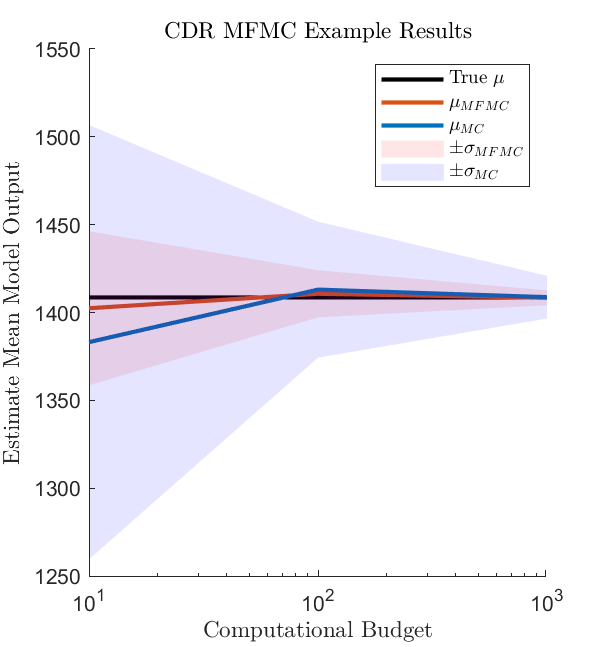
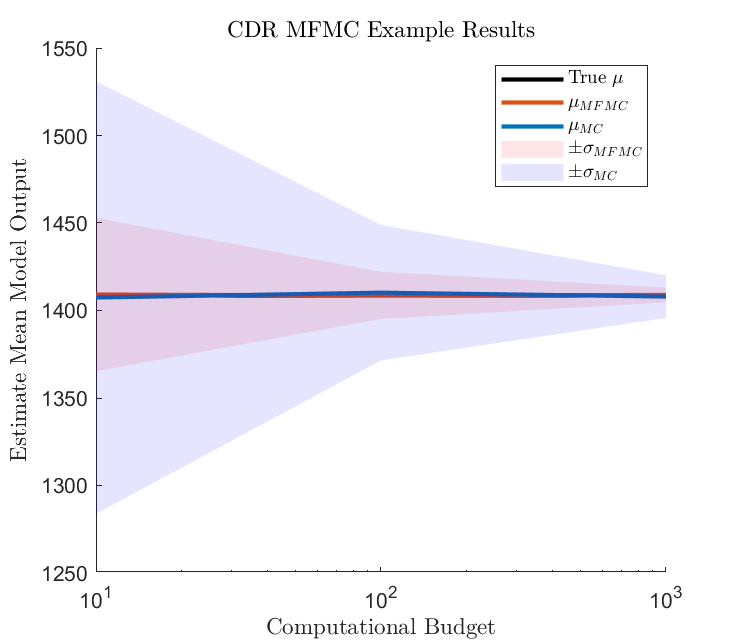
final edits to plots

diff --git a/mfmcExamples/functions/plotMFLinearExp.m b/mfmcExamples/functions/plotMFLinearExp.m
@@ -19,8 +19,8 @@ function plotMFLinearExp(models, betaMFMC, betaMC, CxyMFMC, CxyMC, exactLR, p, a
     semilogx(p, exactLR.Cxy(1).*ones(length(p),1), "Color", [0, 0, 0, 1])
     semilogx(p, mean(Cxy1MC, 1), "Color", [rbg(1, :) 1], "Linestyle", "--", "Marker", "o")
     semilogx(p, mean(Cxy1MF, 1), "Color", [rbg(2, :) 1], "Linestyle", "--", "Marker", "x")
-    xlabel("x")
-    ylabel("y")
+    xlabel("p", "Interpreter", "latex")
+    ylabel("$\hat{c}_{XY}(1)$", "Interpreter", "latex")
     title("First Element of $\hat{c}_{XY}$; Average value of $f^{(1)}$", "Interpreter", "latex")
 
     %% First Element of beta versus p
@@ -34,8 +34,8 @@ function plotMFLinearExp(models, betaMFMC, betaMC, CxyMFMC, CxyMC, exactLR, p, a
     semilogx(p, exactLR.beta(1).*ones(length(p),1), "Color", [0, 0, 0, 1])
     semilogx(p, mean(beta1MC, 1)', "Color", [rbg(1, :) 1], "Linestyle", "--", "Marker", "o")
     semilogx(p, mean(beta1MF, 1)', "Color", [rbg(2, :) 1], "Linestyle", "--", "Marker", "x")
-    xlabel("x")
-    ylabel("y")
+    xlabel("p", "Interpreter", "latex")
+    ylabel("$\hat{\beta}(1)$", "Interpreter", "latex")
     title("First Element of $\hat{\beta}$", "Interpreter", "latex")
 
     %% fhat(5) versus p
@@ -55,8 +55,8 @@ function plotMFLinearExp(models, betaMFMC, betaMC, CxyMFMC, CxyMC, exactLR, p, a
     semilogx(p, exactLR.poly(5).*ones(length(p),1), "Color", [0, 0, 0, 1], "DisplayName", "True Value");
     pl{4} = semilogx(p, mean(mc5, 1)', "Color", [rbg(1, :) 1], "Linestyle", "--", "Marker", "o", "DisplayName", "Monte Carlo");
     pl{5} = semilogx(p, mean(mf5, 1)', "Color", [rbg(2, :) 1], "Linestyle", "--", "Marker", "x", "DisplayName", "Multi-fidelity Monte Carlo");
-    xlabel("x")
-    ylabel("y")
+    xlabel("p", "Interpreter", "latex")
+    ylabel("$\hat{f}^{(1)}(5)$", "Interpreter", "latex")
     title("Predicting $f^{(1)}(5)$", "Interpreter", "latex")
     
     legend([pl{1}, pl{4}, pl{5}], 'True Value','Monte Carlo', 'Multi-fidelity MC', 'Location', 'best');

diff --git a/mfmcExamples/mfmcCDR.m b/mfmcExamples/mfmcCDR.m
@@ -20,7 +20,7 @@ w = [1.94; 6.20e-3]; % [Hi-Fidelity, Low Fidelity]
 p = [10; 100; 1000];
 
 % Number of Replicates
-R = 50;
+R = 500;
 
 %% Getting necessary statistics for analysis
 % Statistics are generated with full access to the data
@@ -52,4 +52,3 @@ end
 % Figure 2: Plotting Analytical Mean Square Error with Observed values:
 % cdr2.png
 showResultsMFMC(mu_true, p, mfmc, mc, "cdr")
-
